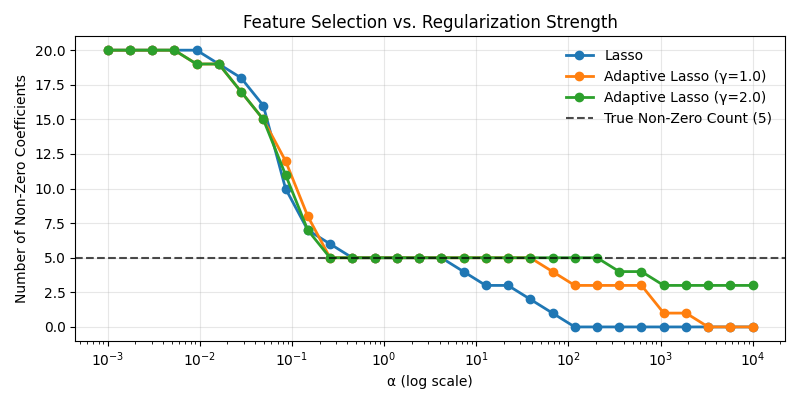
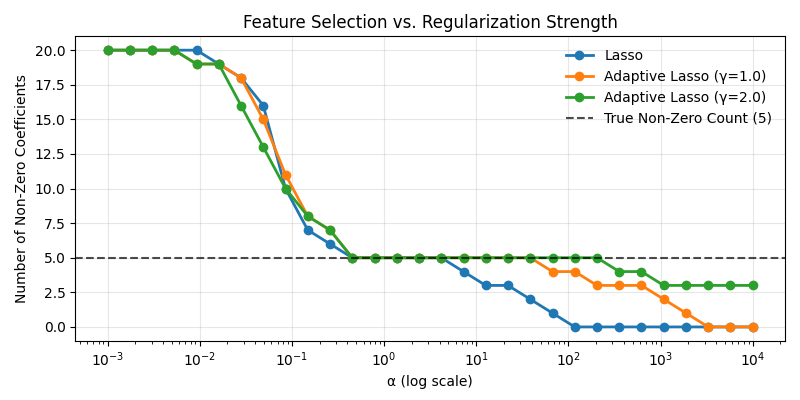
Update README

diff --git a/adalasso/_adaptive_lasso.py b/adalasso/_adaptive_lasso.py
@@ -1,200 +1,117 @@
 import numpy as np
-import warnings
 from sklearn.base import BaseEstimator, RegressorMixin
 from sklearn.linear_model import Lasso, Ridge
 from sklearn.utils.validation import check_X_y, check_array, check_is_fitted
 from sklearn.preprocessing import StandardScaler
 
 class AdaptiveLasso(BaseEstimator, RegressorMixin):
-    """Adaptive Lasso linear model with iterative fitting.
-
-    The adaptive lasso is a modification of the standard lasso
-    where the penalty term is weighted by a preliminary estimate
-    of the coefficients.
+    """Adaptive Lasso linear model.
 
     Parameters
     ----------
     alpha : float, default=1.0
         Constant that multiplies the penalty term.
     gamma : float, default=1.0
-        Power parameter for the adaptive weights.
+        Power parameter for adaptive weights.
     max_iter : int, default=1000
         Maximum number of iterations for the solver.
     tol : float, default=1e-4
         Tolerance for optimization.
     fit_intercept : bool, default=True
         Whether to calculate the intercept for this model.
-    normalize : bool, default=False
-        This parameter is ignored when ``fit_intercept`` is set to False.
-        If True, the regressors X will be normalized before regression by
-        subtracting the mean and dividing by the l2-norm.
-    precompute : bool, default=False
-        Whether to use a precomputed Gram matrix to speed up
-        calculations.
-    copy_X : bool, default=True
-        If True, X will be copied; else, it may be overwritten.
-    warm_start : bool, default=False
-        When set to True, reuse the solution of the previous call to fit as
-        initialization, otherwise, just erase the previous solution.
-    positive : bool, default=False
-        When set to True, forces the coefficients to be positive.
-    random_state : int, RandomState instance or None, default=None
-        The seed of the pseudo random number generator that selects a random
-        feature to update. Used when ``selection`` == 'random'.
-    initial_ridge_alpha : float, default=0.1
-        Regularization strength for the initial Ridge regression.
+    initial_ridge_alpha : float, default=1.0
+        Ridge penalty strength for initial coefficient estimates.
     max_weight : float, default=100.0
-        Maximum value for the adaptive weights to prevent numerical issues.
+        Maximum value for adaptive weights to prevent numerical issues.
     weight_epsilon : float, default=1e-6
-        Small value to avoid division by zero in the adaptive weights.
+        Small value to avoid division by zero in adaptive weights.
+    random_state : int or None, default=None
+        Seed for reproducibility.
 
     Attributes
     ----------
     coef_ : array, shape (n_features,)
-        Parameter vector (w in the cost function formula).
+        Estimated coefficients.
     intercept_ : float
         Independent term in decision function.
     n_iter_ : int
-        Number of iterations run by the coordinate descent solver to reach
-        the specified tolerance.
+        Number of iterations run by coordinate descent solver.
     """
 
     def __init__(
         self, alpha=1.0, gamma=1.0, max_iter=1000, tol=1e-4,
-        fit_intercept=True, normalize=False, precompute=False,
-        copy_X=True, warm_start=False, positive=False,
-        random_state=None, initial_ridge_alpha=0.1, max_weight=100.0,
-        weight_epsilon=1e-6
+        fit_intercept=True, initial_ridge_alpha=1.0, 
+        max_weight=100.0, weight_epsilon=1e-6, random_state=None
     ):
         self.alpha = alpha
         self.gamma = gamma
         self.max_iter = max_iter
         self.tol = tol
         self.fit_intercept = fit_intercept
-        self.normalize = normalize
-        self.precompute = precompute
-        self.copy_X = copy_X
-        self.warm_start = warm_start
-        self.positive = positive
-        self.random_state = random_state
         self.initial_ridge_alpha = initial_ridge_alpha
         self.max_weight = max_weight
         self.weight_epsilon = weight_epsilon
+        self.random_state = random_state
 
     def fit(self, X, y):
-        """Fit adaptive lasso model.
-
-        Parameters
-        ----------
-        X : {array-like, sparse matrix}, shape (n_samples, n_features)
-            Training data.
-
-        y : array-like, shape (n_samples,)
-            Target values.
-
-        Returns
-        -------
-        self : object
-            Returns self.
-        """
         X, y = check_X_y(X, y, accept_sparse='csr', multi_output=False)
 
-        # Handle normalization (deprecated in newer scikit-learn versions).
-        if self.normalize:
-            warnings.warn(
-                "The normalize parameter is deprecated in scikit-learn and "
-                "will be removed in a future version. Use StandardScaler instead.",
-                FutureWarning
-            )
-            X_scaler = StandardScaler(with_mean=self.fit_intercept).fit(X)
-            X_processed = X_scaler.transform(X)
-        else:
-            X_scaler = None
-            X_processed = X.copy() if self.copy_X else X
-
-        # Center X and y manually if fit_intercept is True
+        # Center X and y if intercept is used
         if self.fit_intercept:
-            X_offset = np.average(X_processed, axis=0)
-            y_offset = np.average(y, axis=0)
-            # Center X and y
-            X_processed = X_processed - X_offset
-            y_processed = y - y_offset
+            X_offset = np.mean(X, axis=0)
+            y_offset = np.mean(y)
+            X_centered = X - X_offset
+            y_centered = y - y_offset
         else:
             X_offset = np.zeros(X.shape[1])
             y_offset = 0.0
-            y_processed = y
+            X_centered = X
+            y_centered = y
 
-        # For post-solution coefficient correction
-        if self.normalize:
-            X_scale = X_scaler.scale_
-        else:
-            X_scale = np.ones(X.shape[1])
+        # Step 1: Obtain initial coefficient estimates using Ridge regression
+        ridge = Ridge(alpha=self.initial_ridge_alpha, fit_intercept=False)
+        ridge.fit(X_centered, y_centered)
+        initial_coefs = np.abs(ridge.coef_)
 
-        # Step 1: get initial weights using Ridge with stronger regularization
-        initial_model = Ridge(alpha=self.initial_ridge_alpha, fit_intercept=False)
-        initial_model.fit(X_processed, y_processed)
-        init_coefs = np.abs(initial_model.coef_)
-        
-        # Apply a higher threshold to avoid extremely small values
-        # that would produce huge weights
-        init_coefs = np.maximum(init_coefs, self.weight_epsilon)
-        
-        # Step 2: compute the adaptive weights with capping to prevent explosion
-        w = 1.0 / (init_coefs ** self.gamma)
-        
-        # Cap the weights to prevent extreme values
-        w = np.minimum(w, self.max_weight)
-        
-        # Normalize the weights to keep the scale reasonable
-        # This doesn't change the relative importance but prevents numerical issues
-        if np.max(w) > 0:
-            w = w / np.mean(w)  # Normalize so the average weight is 1
-        
-        # Apply the square-root trick with numerical stability
-        sqrt_w = np.sqrt(w)
-        X_weighted = X_processed / sqrt_w
-        
-        # Step 3: Fit the standard Lasso on the scaled data
-        lasso_model = Lasso(
+        # Avoid extremely small values
+        initial_coefs = np.maximum(initial_coefs, self.weight_epsilon)
+
+        # Step 2: Compute adaptive weights
+        weights = 1.0 / (initial_coefs ** self.gamma)
+
+        # Cap adaptive weights to prevent numerical instability
+        weights = np.minimum(weights, self.max_weight)
+
+        # (Optional) Normalize weights for numerical stability
+        weights /= np.mean(weights)
+
+        # Transform features according to adaptive weights
+        X_weighted = X_centered / np.sqrt(weights)
+
+        # Step 3: Fit standard Lasso to transformed features
+        lasso = Lasso(
             alpha=self.alpha,
             fit_intercept=False,
             max_iter=self.max_iter,
             tol=self.tol,
-            precompute=self.precompute,
-            copy_X=False,
-            warm_start=self.warm_start,
-            positive=self.positive,
             random_state=self.random_state
-        ).fit(X_weighted, y_processed)
-        
-        # The lasso model's coefficients are in the weighted space
-        weighted_coefs = lasso_model.coef_
-        # Convert back to the original space with controlled scaling
-        self.coef_ = weighted_coefs / sqrt_w
-        
-        # Now set the intercept if required
+        )
+        lasso.fit(X_weighted, y_centered)
+
+        # Convert coefficients back to original space
+        self.coef_ = lasso.coef_ / np.sqrt(weights)
+
+        # Intercept computation
         if self.fit_intercept:
-            self.intercept_ = y_offset - np.dot(X_offset, self.coef_ / X_scale)
+            self.intercept_ = y_offset - np.dot(X_offset, self.coef_)
         else:
             self.intercept_ = 0.0
-            
-        self.n_iter_ = lasso_model.n_iter_
-        
+
+        self.n_iter_ = lasso.n_iter_
+
         return self
 
     def predict(self, X):
-        """Predict using the linear model.
-
-        Parameters
-        ----------
-        X : array-like or sparse matrix, shape (n_samples, n_features)
-            Samples.
-
-        Returns
-        -------
-        array, shape (n_samples,)
-            Returns predicted values.
-        """
         check_is_fitted(self)
         X = check_array(X, accept_sparse='csr')
-        return np.dot(X, self.coef_) + self.intercept_
+        return X @ self.coef_ + self.intercept_

diff --git a/setup.py b/setup.py
@@ -2,7 +2,7 @@ from setuptools import setup, find_packages
 
 setup(
     name="adalasso",
-    version="0.1.0",
+    version="0.1.1",
     packages=find_packages(),
     install_requires=[
         "numpy>=1.16.0",

diff --git a/adalasso/__init__.py b/adalasso/__init__.py
@@ -5,5 +5,6 @@ of the coefficients.
 """
 
 from ._adaptive_lasso import AdaptiveLasso
+from .adalasso_path import adalasso_path
 
-__all__ = ["AdaptiveLasso"]
+__all__ = ["AdaptiveLasso", "adalasso_path"]

diff --git a/adalasso/tests/__init__.py b/adalasso/tests/__init__.py
@@ -1,0 +1,1 @@
+# This file is intentionally left empty to make the directory a Python package

diff --git a/README.md b/README.md
@@ -1,5 +1,7 @@
-# Adaptive Lasso
-
+<div align="center">
+  <img src="https://raw.githubusercontent.com/ErikHartman/adalasso/main/sklearn_logo.png" alt="scikit-learn logo" width="200"/>
+  <h1>Adaptive Lasso</h1>
+</div>
 
 [![PyPI version](https://img.shields.io/pypi/v/adalasso.svg)](https://pypi.org/project/adalasso/)
 [![Tests](https://github.com/ErikHartman/adalasso/actions/workflows/tests.yml/badge.svg)](https://github.com/ErikHartman/adalasso/actions/workflows/tests.yml)
@@ -73,13 +75,13 @@ pytest --cov=adalasso adalasso/tests/
 
 The following figure shows how coefficients evolve with different regularization strengths for standard Lasso versus Adaptive Lasso:
 
-![Adaptive Lasso Regularization Path](adaptive_lasso_regularization_path.png)
+![Adaptive Lasso Regularization Path](https://raw.githubusercontent.com/ErikHartman/adalasso/main/adaptive_lasso_regularization_path.png)
 
 ### Feature Selection Performance
 
 This figure demonstrates how Adaptive Lasso performs better at selecting the correct number of non-zero features across different regularization strengths:
 
-![Feature Selection vs Regularization](adaptive_lasso_feature_count.png)
+![Feature Selection vs Regularization](https://raw.githubusercontent.com/ErikHartman/adalasso/main/adaptive_lasso_feature_count.png)
 
 ## References
 
